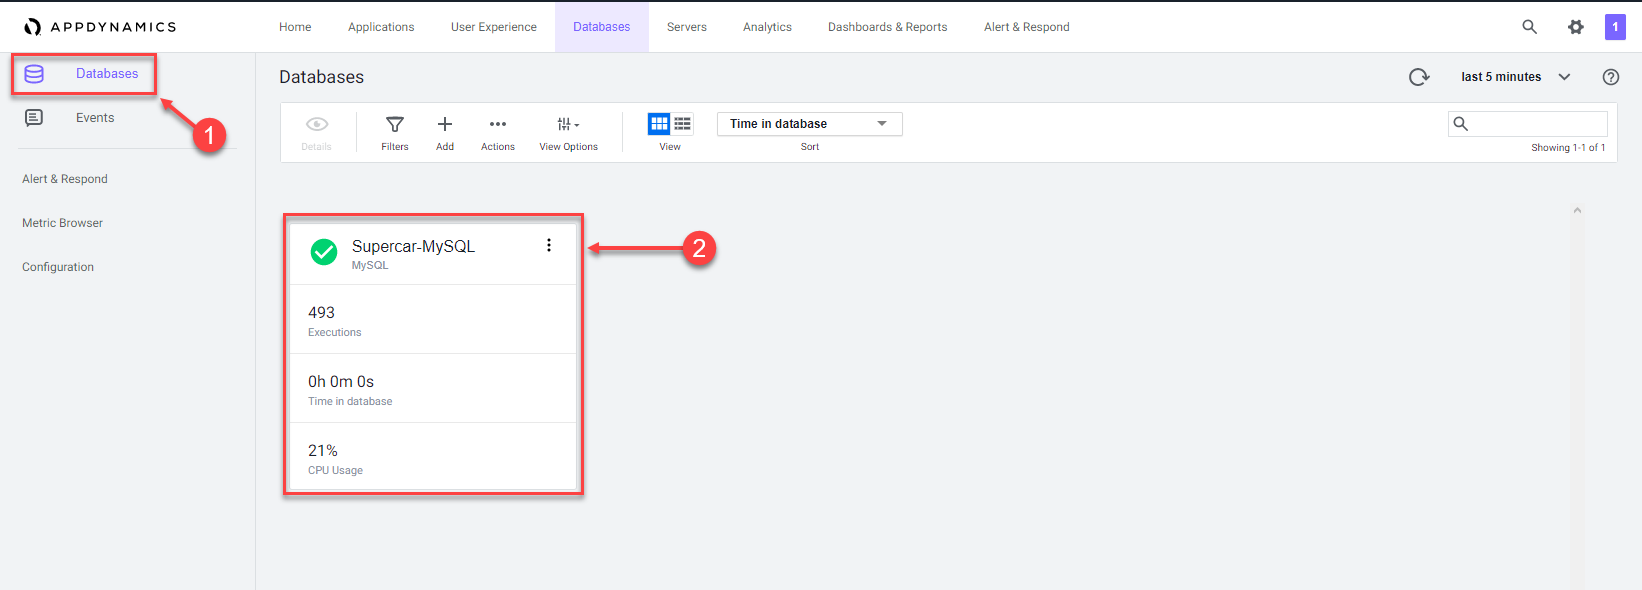
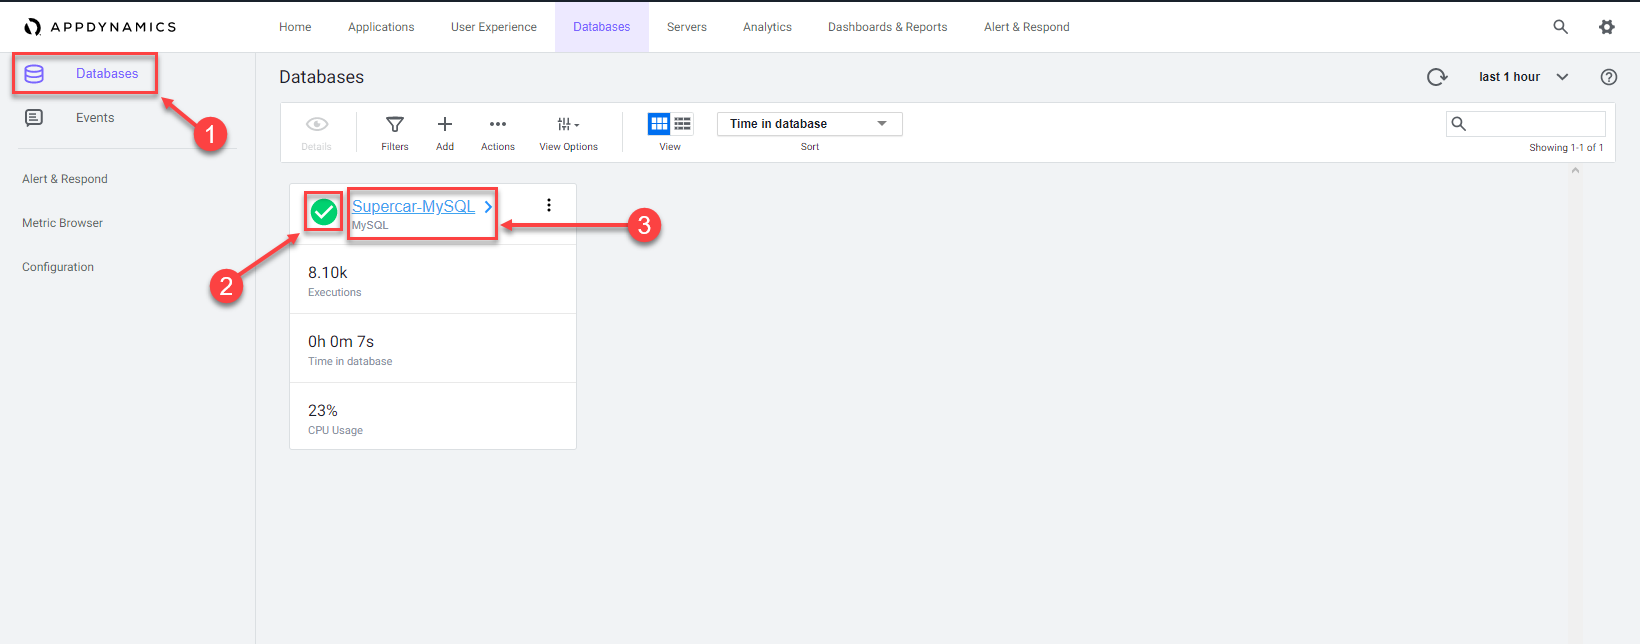
Initial commit

diff --git a/labs/fnd-04-appd-dbmon/lab-exercise-06.md b/labs/fnd-04-appd-dbmon/lab-exercise-06.md
@@ -1,0 +1,50 @@
+![Lab Icon](./assets/images/lab-icon.png) Monitor and troubleshoot Database issues - Part 1
+=========================================================================
+
+In this exercise you will need to do the following:
+
+- Review the Overall Database and Server Performance Dashboard
+- Review the Main Database Dashboard
+- Review the Browser Application Usage Stats Dashboard
+- Navigate the Supercar-Trader application web pages
+
+
+### **1.** Review the Overall Database and Server Performance Dashboard
+
+The Overall Database and Server Performance Dashboard allows you to quickly see the health of each database at a glance.
+
+1. Click on the "Filters" button to explore the options to filter by health, load, time in database or type
+2. Click on the "Actions" button to export the data on this window in a .csv formatted file
+3. Click on the "View Options" button to turn the spark charts on and off
+4. Click on the "View" button to switch between the card and list view
+5. Clcik on the "Sort" dropdown to see the sorting options
+6. Click on the "Supercar-MySQL" link to drill into the main database dashboard
+
+![DB Dash 1](./assets/images/06-db-dashboard-01.png)
+
+<br>
+
+### **2.** Review the Main Database Dashboard
+
+The ..............
+
+Explore the features of the dashboard described below.
+
+1. Click on the "...." button to 
+2. Click and drag the bottom right corner of any widget to resize it
+3. Click on the area (seen outlined) in any widget to move and place it on the dashboard
+4. Click on the title of any widget to drill into the detail dashboard
+5. Click on the "X" in the top right corner of any widget to remove it from the dashboard
+
+.
+
+You can read more about the ...... dashboard [here](https://docs.appdynamics.com/display/latest/Browser+App+Dashboard#BrowserAppDashboard-overview)
+
+![DB Dash 2](./assets/images/06-db-dashboard-02.png)
+
+<br>
+
+
+<br>
+
+[Lab setup](lab-exercise-00.md) | [1](lab-exercise-01.md), [2](lab-exercise-02.md), [3](lab-exercise-03.md), [4](lab-exercise-04.md), [5](lab-exercise-05.md), 6 | [Back](lab-exercise-05.md) | [Next](lab-exercise-06.md)

diff --git a/labs/fnd-04-appd-dbmon/lab-exercise-05.md b/labs/fnd-04-appd-dbmon/lab-exercise-05.md
@@ -1,6 +1,8 @@
 ![Lab Icon](./assets/images/lab-icon.png) Configure a Database Collector in the Controller
 =========================================================================
 
+The Database Agent Collector is the process that runs within the Database Agent to collect performance metrics about your database instances and database servers. One collector collects metrics for one database instance. Multiple collectors can run in one Database Agent.
+
 In this exercise you will need to do the following:
 
 - Access your AppDynamics Controller from your web browser
@@ -67,14 +69,19 @@ Use the following steps to configure a new Database collector.
 
 ### **3.** Confirm the Database Collector is collecting data
 
-Use the following steps to ............
+Wait for ten minutes to allow the collector to run and submit data, then use the following steps to verify the database collector is connecting to the database and collecting database metrics.
 
 1. Click on the "Databases" tab on the left menu
-2. Click on the ................
+2. Ensure the status is green and there are no errors shown
+3. Click on the "Supercar-MySQL" link to drill into the database
 
+**Note** It may take up to 18 minutes from the time you configure your collector to see the "Top 10 SQL Wait States" and any queries on the "Queries" tab.
+
+You can read more about configuring Database Collectors [here](https://docs.appdynamics.com/display/latest/Add+Database+Collectors) and [here](https://docs.appdynamics.com/display/latest/Configure+MySQL+Collectors)
 
 ![DB Dash 3](./assets/images/05-db-dashboard-03.png)
-
+![DB Dash 4](./assets/images/05-db-dashboard-04.png)
+![DB Dash 5](./assets/images/05-db-dashboard-05.png)
 
 <br>
 

diff --git a/labs/fnd-04-appd-dbmon/lab-exercise-04.md b/labs/fnd-04-appd-dbmon/lab-exercise-04.md
@@ -1,6 +1,10 @@
 ![Lab Icon](./assets/images/lab-icon.png) Install the Database Visibility Agent
 =========================================================================
 
+The AppDynamics Database Agent is a standalone Java program that collects performance metrics about your database instances and database servers. You can deploy the Database Agent on any machine running Java 1.8 or higher. The machine must have network access to the AppDynamics Controller and the database instance that you want to be monitored.
+
+A database agent running on a typical machine with 16 GB of memory can monitor about 25 databases. On larger machines, a database agent can monitor up to 200 databases.
+
 In this exercise you will need to do the following:
 - Upload the Database Visibility agent file to your "Application VM"
 - Unzip the file into a specific directory on the file system
@@ -155,6 +159,8 @@ ps -ef | grep db-agent
 ```
 
 You should see the results of starting the agent as in the image below.
+
+You can read more about installing the AppDynamics Database Visibility agent [here](https://docs.appdynamics.com/display/latest/Overview+of+Database+Visibility) and [here](https://docs.appdynamics.com/display/latest/Install+the+Database+Agent)
 
 ![DB Install 3](./assets/images/04-dbagent-install-03.png)
 

diff --git a/labs/fnd-04-appd-dbmon/lab-exercise-01.md b/labs/fnd-04-appd-dbmon/lab-exercise-01.md
@@ -7,8 +7,6 @@
 
 In this Lab you learn about AppDynamics Database Visibility Monitoring.  You will learn how to install and configure the Database Visibility agent to monitor the health of your databases and how to troubleshoot database performance issues.
 
-**!!!!!! Time to see SQL wait states and Queries = 17 minutes from agent startup !!!!!!!**
-
 ## Prerequisites
 
 You should already have access to the virtual machines for the lab.  If do not already have access to the VMs for the lab, follow the instructions [here](lab-exercise-00.md).
